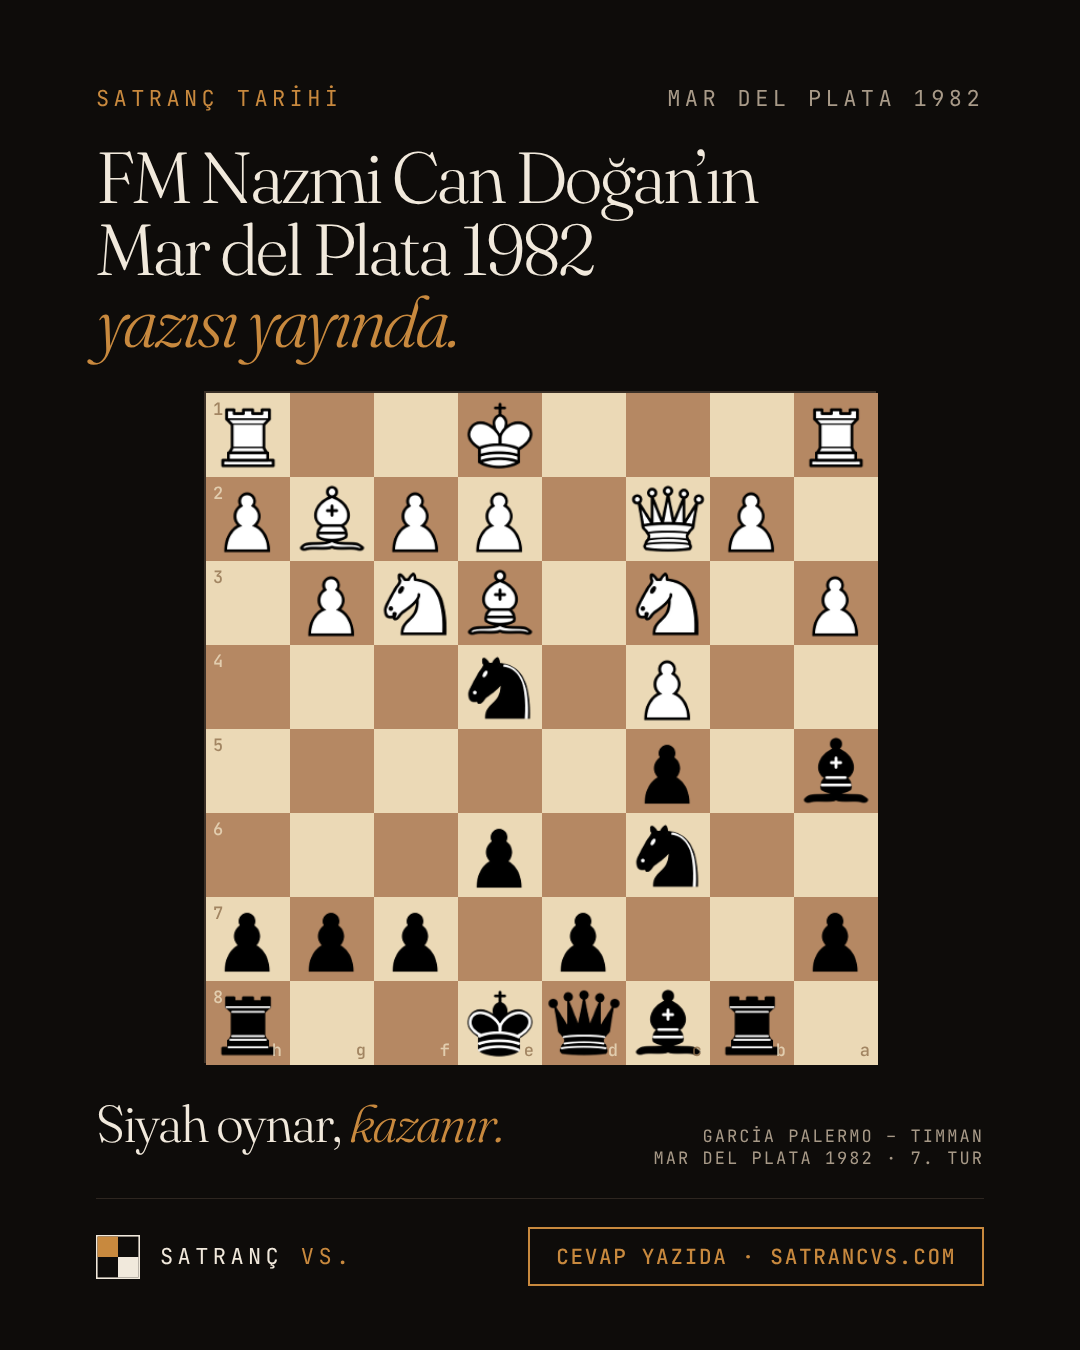
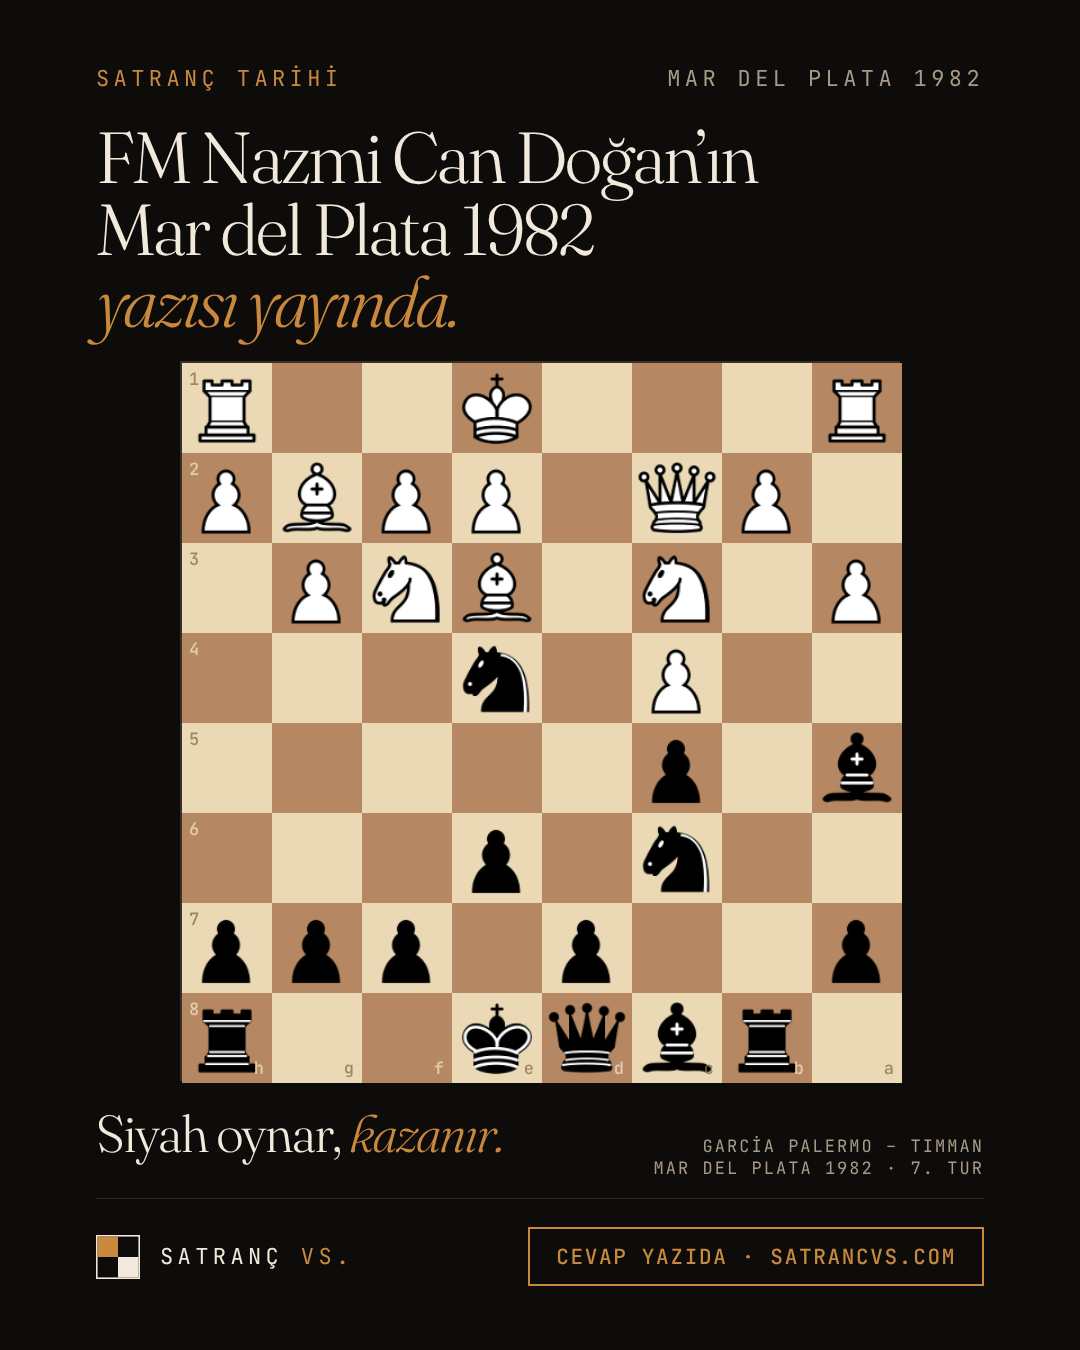
Timman Instagram post: board 720 px
Claude-Session: https://claude.ai/code/session_01RDmroYRbj54oLNzSEoCtpT

diff --git a/social/instagram/03-timman/slides.html b/social/instagram/03-timman/slides.html
@@ -9,21 +9,21 @@
 * { box-sizing:border-box; margin:0; padding:0; }
 body { background:#000; }
 .slide { position:relative; width:1080px; height:1350px; background:var(--bg); color:var(--fg); overflow:hidden;
-  font-family:'Newsreader',serif; font-weight:320; font-optical-sizing:auto; padding:84px 96px 0; display:flex; flex-direction:column; }
+  font-family:'Newsreader',serif; font-weight:320; font-optical-sizing:auto; padding:64px 96px 0; display:flex; flex-direction:column; }
 .mono { font-family:'JetBrains Mono',monospace; font-size:22px; letter-spacing:.2em; text-transform:uppercase; font-weight:400; }
 .accent { color:var(--accent); }
 .mute { color:var(--mute); }
 .top { display:flex; justify-content:space-between; align-items:center; }
 .disp { font-family:'Fraunces',serif; font-weight:300; letter-spacing:-.04em; line-height:1; font-variation-settings:'opsz' 72; font-size:72px; margin-top:28px; white-space:nowrap; }
 .disp em { font-style:italic; color:var(--accent); }
-.board { margin-top:34px; width:672px; height:672px; align-self:center; display:grid; grid-template-columns:repeat(8,84px); grid-template-rows:repeat(8,84px); border:2px solid #3a3027; position:relative; }
-.sq { width:84px; height:84px; position:relative; }
+.board { margin-top:24px; width:720px; height:720px; align-self:center; display:grid; grid-template-columns:repeat(8,90px); grid-template-rows:repeat(8,90px); border:2px solid #3a3027; position:relative; }
+.sq { width:90px; height:90px; position:relative; }
 .sq.l { background:#EBD9B6; } .sq.d { background:#B58863; }
-.sq img { position:absolute; inset:0; width:84px; height:84px; }
+.sq img { position:absolute; inset:0; width:90px; height:90px; }
 .sq b { position:absolute; font-family:'JetBrains Mono',monospace; font-size:17px; font-weight:500; opacity:.75; }
 .sq.l b { color:#8a6a47; } .sq.d b { color:#F1E4C8; }
 .sq b.r { left:7px; top:5px; } .sq b.f { right:8px; bottom:4px; }
-.cap { margin-top:32px; display:flex; justify-content:space-between; align-items:baseline; gap:24px; }
+.cap { margin-top:24px; display:flex; justify-content:space-between; align-items:baseline; gap:24px; }
 .cap .mono { font-size:17px; letter-spacing:.12em; }
 .q { font-family:'Fraunces',serif; font-weight:300; font-size:52px; letter-spacing:-.03em; line-height:1.1; font-variation-settings:'opsz' 72; white-space:nowrap; }
 .q em { font-style:italic; color:var(--accent); }
